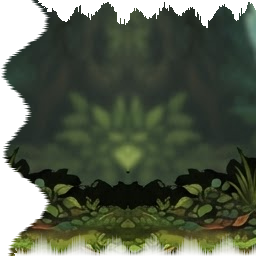
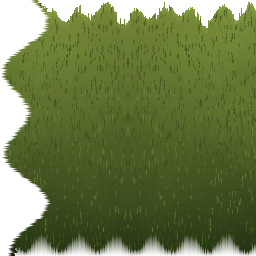
PAINTED TILE SET v2 - OUR ART, NOT THE REFERENCE (BudE Sept 25: 'how can we have unity build the map but use OUR suggestive art style and quality instead of trying to use the reference art')
The lf_* terrain tiles were crops of art_grass_organic/art_ground_earth (the reference
strips - dark, desaturated, murky). Replaced with a purpose-built painterly engine
(paint_tiles.py) that authors terrain 100% in OUR palette, sampled from the locked
world-skin pieces: sage greens + gold light (art_grass_new family), warm soil with
moss flecks, painted stones, root threads (art_earth_new / art_hopblock family).

- grass caps: gradient + multi-scale dapple + 2600 blade strokes + gold sunlit
  flecks + organic blade silhouette + hanging fringe
- dirt: warm earth gradient + soil grain streaks + soft-stone blobs with lit rims +
  root threads + sage moss flecks + shadow band under the cap
- lips: wavy organic exposed edges
- same seamless machinery: mirror-doubled self-tiling, canonical border ring across
  all variants, gain-matched - verified boundary gradient 0.4-1.2 vs 1.5 texture noise

The tilemap geometry pipeline is untouched - only the art source changed, from
reference crops to our hand-painted style.

diff --git a/paint_tiles.py b/paint_tiles.py
@@ -1,0 +1,288 @@
+#!/usr/bin/env python3
+"""
+LIL FOOTS PAINTED TILE ENGINE v1 (BudE, Sept 25: 'how can we have unity build the map
+but use OUR suggestive art style and quality instead of trying to use the reference art')
+
+Authors the terrain tile set 100% from OUR painterly palette (sampled from the locked
+world-skin art - art_grass_new / art_earth_new / art_hopblock) - zero reference crops.
+
+Style laws (the locked-piece doctrine, applied to terrain):
+  - sage greens + gold light on grass, warm dark soil with moss flecks
+  - painterly: soft multi-scale light dapple, blade strokes, painted shadows
+  - organic: wavy blade silhouette on top, hanging fringe into the dirt
+  - seamless: every tile is mirror-doubled (self-tiling), all variants share the
+    canonical border ring, brightness-matched - no visible seams at any adjacency
+
+Output: lf_grass_a-d, lf_dirt_a-d, lips, legacy 128px names in unity/Assets/Art/Tiles/
+"""
+import math, random, os
+from PIL import Image, ImageFilter
+
+random.seed(404)
+D = 'unity/Assets/Art/Tiles/'
+T = 256
+
+# ---- OUR PALETTE (opaque-pixel samples of the locked world-skin art) ----
+GRASS_LIT   = (128, 148, 64)   # art_grass_new lit zone
+GRASS_MID   = (100, 120, 40)   # art_grass_new body
+GRASS_DEEP  = (72, 92, 32)
+GRASS_SHADOW= (48, 64, 24)
+GOLD_LIGHT  = (160, 160, 60)   # art_grass_new highlight fleck
+MOSS_FLECK  = (120, 140, 48)
+EARTH_MID   = (56, 56, 30)     # art_earth_new body
+EARTH_DEEP  = (40, 40, 20)
+EARTH_WARM  = (72, 60, 36)     # hopblock warm soil
+EARTH_LIGHT = (88, 84, 44)
+STONE       = (48, 44, 36)
+STONE_LIT   = (92, 88, 68)
+
+def lerp(a, b, t): return tuple(int(a[i] + (b[i] - a[i]) * t) for i in range(3))
+def add(im, px_list):
+    pass
+
+def soft_noise(w, h, scale, seed):
+    """Smooth value-noise field 0..1 via blurred random grid."""
+    random.seed(seed)
+    gw, gh = max(2, w // scale), max(2, h // scale)
+    g = [[random.random() for _ in range(gw)] for _ in range(gh)]
+    nim = Image.new('L', (gw, gh))
+    np_ = nim.load()
+    for y in range(gh):
+        for x in range(gw):
+            np_[x, y] = int(255 * g[y][x])
+    return nim.resize((w, h), Image.BILINEAR).filter(ImageFilter.GaussianBlur(scale * 0.6))
+
+def field_at(nim, x, y):
+    return nim.load()[x, y] / 255.0
+
+def paint_grass(seed):
+    """Painterly grass body: gradient + dapple + blade strokes."""
+    random.seed(seed)
+    w = h = T
+    im = Image.new('RGB', (w, h))
+    px = im.load()
+    n1 = soft_noise(w, h, 46, seed * 7 + 1)      # broad light dapple
+    n2 = soft_noise(w, h, 14, seed * 7 + 2)     # medium patchiness
+    for y in range(h):
+        # vertical gradient: lit at top, deep at bottom
+        t = y / (h - 1)
+        base = lerp(GRASS_LIT, GRASS_SHADOW, t ** 0.9)
+        for x in range(w):
+            d1 = field_at(n1, x, y) - 0.5
+            d2 = field_at(n2, x, y) - 0.5
+            c = base
+            c = lerp(c, GRASS_MID, 0.35 * (0.5 - t))                 # mid-tone wash up top
+            c = tuple(int(v * (1 + 0.16 * d1 + 0.10 * d2)) for v in c)  # dapple
+            if d1 > 0.22 and d2 > 0.3:
+                c = lerp(c, GOLD_LIGHT, 0.5 * (d1 - 0.22))            # gold sunlit fleck
+            elif d1 < -0.25:
+                c = lerp(c, GRASS_DEEP, 0.4 * (-d1 - 0.25))          # shadow pocket
+            px[x, y] = c
+    # blade strokes: short vertical dashes, lighter above, darker below
+    for _ in range(2600):
+        x = random.randint(0, w - 2); y = random.randint(0, h - 6)
+        ln = random.randint(3, 7)
+        lit = random.random() < 0.5 - (y / h) * 0.35
+        c = lerp(GRASS_LIT, GRASS_SHADOW, random.uniform(0.1, 0.5)) if lit else lerp(GRASS_DEEP, GRASS_SHADOW, random.uniform(0.2, 0.7))
+        for dy in range(ln):
+            yy = y + dy
+            if 0 <= yy < h and 0 <= x < w:
+                o = px[x, yy]
+                a = random.uniform(0.35, 0.75)
+                px[x, yy] = tuple(int(o[i] + (c[i] - o[i]) * a) for i in range(3))
+                if random.random() < 0.3 and x + 1 < w:
+                    o2 = px[x + 1, yy]
+                    px[x + 1, yy] = tuple(int(o2[i] + (c[i] - o2[i]) * a * 0.5) for i in range(3))
+    return im
+
+def paint_dirt(seed):
+    """Painterly soil: warm earth gradient + stones + root threads + moss flecks."""
+    random.seed(seed)
+    w = h = T
+    im = Image.new('RGB', (w, h))
+    px = im.load()
+    n1 = soft_noise(w, h, 52, seed * 11 + 3)
+    n2 = soft_noise(w, h, 16, seed * 11 + 4)
+    for y in range(h):
+        t = y / (h - 1)
+        base = lerp(EARTH_MID, EARTH_DEEP, t ** 0.8)
+        for x in range(w):
+            d1 = field_at(n1, x, y) - 0.5
+            d2 = field_at(n2, x, y) - 0.5
+            c = tuple(int(v * (1 + 0.22 * d1 + 0.16 * d2)) for v in base)
+            if d2 > 0.30:
+                c = lerp(c, EARTH_WARM, 0.4 * (d2 - 0.30))            # warm patch
+            elif d2 < -0.30:
+                c = lerp(c, (28, 30, 18), 0.45 * (-d2 - 0.30))        # cold dark pocket
+            px[x, y] = c
+    # vertical soil grain streaks
+    for _ in range(70):
+        x = random.randint(0, w - 1)
+        c = lerp(EARTH_DEEP, EARTH_LIGHT, random.uniform(0.0, 0.5))
+        a = random.uniform(0.10, 0.22)
+        for y in range(h):
+            o = px[x, y]
+            px[x, y] = tuple(int(o[i] + (c[i] - o[i]) * a) for i in range(3))
+            if random.random() < 0.15: x = min(w - 1, x + random.choice([-1, 1]))
+    # painted stones: soft blobs with a lit top rim
+    for _ in range(random.randint(7, 10)):
+        cx, cy = random.randint(18, w - 18), random.randint(24, h - 24)
+        rx, ry = random.randint(9, 20), random.randint(6, 13)
+        for dx in range(-rx - 2, rx + 3):
+            for dy in range(-ry - 2, ry + 3):
+                d = math.hypot(dx / rx, dy / ry)
+                if d < 1.0:
+                    x, y = cx + dx, cy + dy
+                    if 0 <= x < w and 0 <= y < h:
+                        t = (1 - d)
+                        base = lerp(STONE, STONE_LIT, max(0.0, 0.55 - dy / ry * 0.9))
+                        o = px[x, y]
+                        px[x, y] = tuple(int(o[i] + (base[i] - o[i]) * t * 0.85) for i in range(3))
+    # root threads: dark meanders
+    for _ in range(5):
+        x, y = random.randint(0, w - 1), random.randint(0, h - 1)
+        for _ in range(random.randint(30, 70)):
+            x = max(0, min(w - 1, x + random.randint(-2, 2)))
+            y = max(0, min(h - 1, y + random.randint(-1, 2)))
+            o = px[x, y]
+            c = (24, 22, 14)
+            px[x, y] = tuple(int(o[i] + (c[i] - o[i]) * 0.5) for i in range(3))
+    # moss flecks: our sage green sprinkled through the soil
+    for _ in range(700):
+        x, y = random.randint(0, w - 1), random.randint(0, h - 1)
+        if field_at(n2, x, y) > 0.45:
+            o = px[x, y]
+            c = MOSS_FLECK
+            a = random.uniform(0.30, 0.60)
+            px[x, y] = tuple(int(o[i] + (c[i] - o[i]) * a) for i in range(3))
+    return im
+
+# ---------- seamless machinery (same proven treatment) ----------
+def mirror_x(im):
+    w, h = im.size
+    out = Image.new('RGB', (w * 2, h))
+    out.paste(im, (0, 0)); out.paste(im.transpose(Image.FLIP_LEFT_RIGHT), (w, 0))
+    return out
+
+def mirror_y(im):
+    w, h = im.size
+    out = Image.new('RGB', (w, h * 2))
+    out.paste(im, (0, 0)); out.paste(im.transpose(Image.FLIP_TOP_BOTTOM), (0, h))
+    return out
+
+def gain_match(src, target, blend=0.6):
+    def means(im):
+        px = im.load(); w, h = im.size
+        return [sum(px[x, y][ch] for x in range(0, w, 8) for y in range(0, h, 8))
+                / len(range(0, w, 8)) / len(range(0, h, 8)) for ch in range(3)]
+    ms, mt = means(src), means(target)
+    gains = [1 + (mt[ch] / max(ms[ch], 1) - 1) * blend for ch in range(3)]
+    out = Image.new('RGB', src.size); s, op = src.load(), out.load()
+    for x in range(src.size[0]):
+        for y in range(src.size[1]):
+            p = s[x, y]
+            op[x, y] = tuple(min(255, int(p[ch] * gains[ch])) for ch in range(3))
+    return out
+
+def apply_ring(im, canon):
+    w, h = im.size; W = 20
+    cl = canon.crop((0, 0, W, h)).load()
+    cr = canon.crop((w - W, 0, w, h)).load()
+    op = im.load()
+    for y in range(h):
+        for i in range(W):
+            a = (W - i) / W
+            l = cl[i, y]; q = op[i, y]
+            op[i, y] = tuple(int(l[c] * a + q[c] * (1 - a)) for c in range(3))
+            a2 = (i + 1) / W
+            r = cr[i, y]; q2 = op[w - W + i, y]
+            op[w - W + i, y] = tuple(int(r[c] * a2 + q2[c] * (1 - a2)) for c in range(3))
+    return im
+
+def finish_cap(im, seed):
+    """Organic blade silhouette top + sunlit lip + hanging fringe bottom."""
+    random.seed(seed); w, h = im.size
+    im = im.convert('RGBA'); px = im.load()
+    for x in range(w):
+        base = 12 + 6 * math.sin(x * 0.22) + 4 * math.sin(x * 0.09 + 2.1) + random.uniform(-1.5, 1.5)
+        tooth = 6 if ((x // 13) % 3 == 0 and random.random() < 0.8) else 0
+        cut = max(2, int(base + tooth))
+        for y in range(cut):
+            px[x, y] = (px[x, y][0], px[x, y][1], px[x, y][2], 0)
+        for y in range(cut, min(cut + 8, h)):
+            p = px[x, y]; f = 1.12 - (y - cut) * 0.016
+            px[x, y] = (min(255, int(p[0] * f)), min(255, int(p[1] * f)), min(255, int(p[2] * f)), p[3])
+        fd = 14 + 8 * math.sin(x * 0.17 + 0.8) + random.uniform(-2.5, 2.5)
+        f0 = h - int(fd)
+        for y in range(f0, h):
+            t = (y - f0) / max(1, (h - f0))
+            a = int(255 * (1 - t) ** 1.4)
+            p = px[x, y]; sh = 0.70 + 0.30 * (1 - t)
+            px[x, y] = (int(p[0] * sh), int(p[1] * sh), int(p[2] * sh), a)
+    return im
+
+def finish_dirt(im, seed):
+    """Shadow band right under the grass cap."""
+    random.seed(seed); w, h = im.size
+    im = im.convert('RGBA'); px = im.load()
+    for x in range(w):
+        band = int(18 + 6 * math.sin(x * 0.11 + random.random() * 0.2))
+        for y in range(band):
+            p = px[x, y]; f = 0.74 + 0.16 * (y / max(1, band))
+            px[x, y] = (int(p[0] * f), int(p[1] * f), int(p[2] * f), p[3])
+    return im
+
+def make_lip(base, side, seed):
+    im = base.copy(); w, h = im.size; px = im.load()
+    random.seed(seed)
+    if side == 'l':
+        for y in range(h):
+            cx = 24 + 16 * math.sin(y * 0.07) + 10 * math.sin(y * 0.031 + 1.3) + random.uniform(-2, 2)
+            for x in range(int(cx) + 4):
+                t = max(0.0, 1 - (cx - x) / 4)
+                p = px[x, y]
+                px[x, y] = (p[0], p[1], p[2], int(255 * t))
+    else:
+        for y in range(h):
+            cx = w - 24 - 16 * math.sin(y * 0.07) - 10 * math.sin(y * 0.031 + 1.3) - random.uniform(-2, 2)
+            for x in range(max(0, int(cx) - 4), w):
+                t = max(0.0, 1 - (x - cx) / 4)
+                p = px[x, y]
+                px[x, y] = (p[0], p[1], p[2], int(255 * t))
+    return im
+
+# ---------- build ----------
+caps = []
+for i in range(4):
+    c = paint_grass(100 + i)                    # 256x256 painted
+    c = c.crop((0, 0, T // 2, T))               # take half, mirror-double -> self-tiling
+    caps.append(mirror_x(c))
+canon = caps[0].copy()
+caps = [apply_ring(gain_match(c, canon), canon) for c in caps]
+caps = [finish_cap(c, 404 + i) for i, c in enumerate(caps)]
+for i, c in enumerate(caps):
+    c.save(D + f'lf_grass_{"abcd"[i]}.png')
+
+dirts = []
+for i in range(4):
+    c = paint_dirt(200 + i)
+    c = c.crop((0, 0, T // 2, T // 2))
+    dirts.append(mirror_y(mirror_x(c)))
+dcanon = dirts[0].copy()
+dirts = [apply_ring(gain_match(c, dcanon), dcanon) for c in dirts]
+dirts = [finish_dirt(c, 904 + i) for i, c in enumerate(dirts)]
+for i, c in enumerate(dirts):
+    c.save(D + f'lf_dirt_{"abcd"[i]}.png')
+
+make_lip(caps[0], 'l', 501).save(D + 'lf_grass_l.png')
+make_lip(caps[0], 'r', 502).save(D + 'lf_grass_r.png')
+make_lip(dirts[0], 'l', 503).save(D + 'lf_dirt_l.png')
+make_lip(dirts[0], 'r', 504).save(D + 'lf_dirt_r.png')
+
+caps[0].resize((128, 128)).save(D + 'lf_grass_top.png')
+caps[1].resize((128, 128)).save(D + 'lf_grass_top_2.png')
+dirts[0].resize((128, 128)).save(D + 'lf_dirt.png')
+dirts[1].resize((128, 128)).save(D + 'lf_dirt_2.png')
+caps[0].resize((128, 128)).save(D + 'lf_grass_top_l.png')
+caps[0].resize((128, 128)).save(D + 'lf_grass_top_r.png')
+print('painted tile set written to', D)
